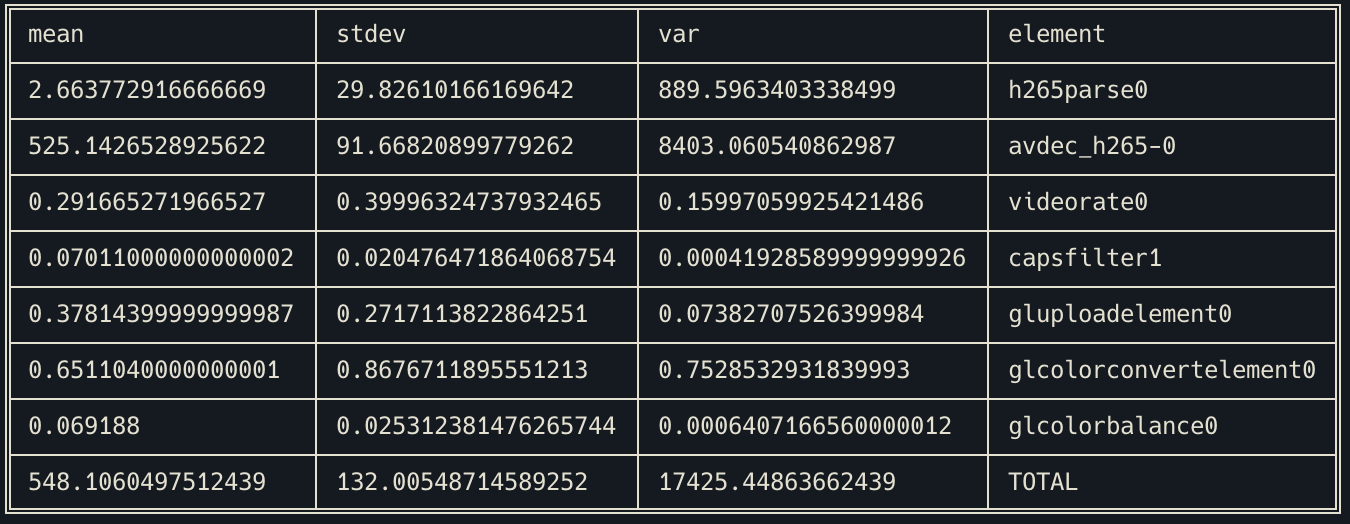
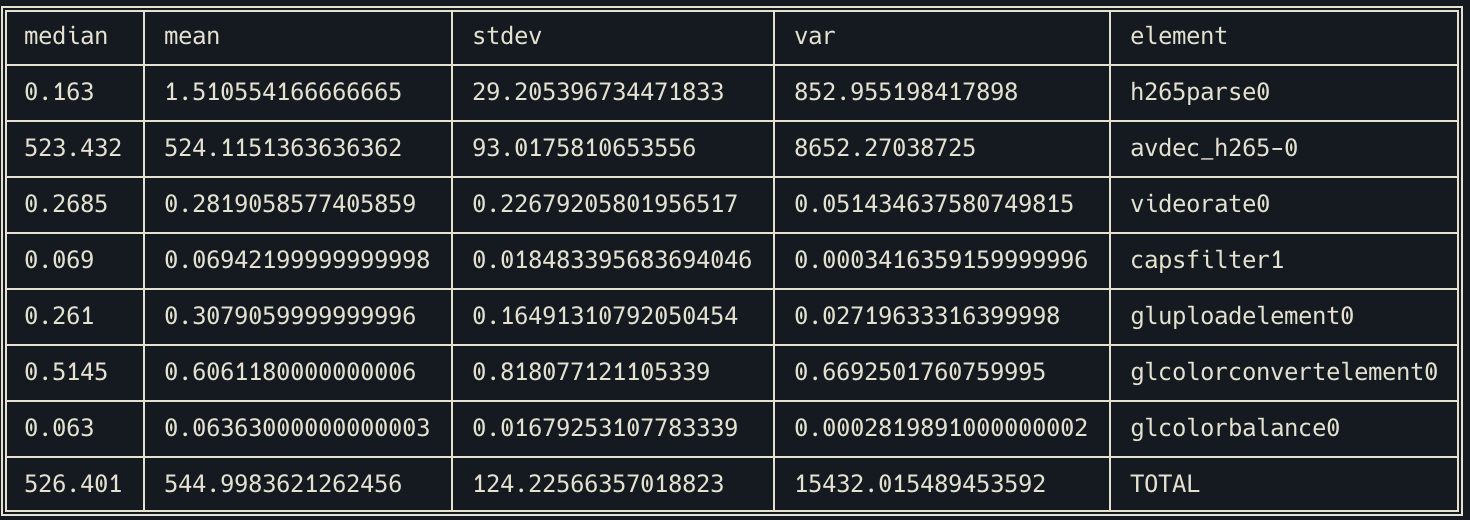
compute median

Changed region(s): [[0.0, 0.0, 0.9956, 1.0]]

diff --git a/main.js b/main.js
@@ -180,15 +180,17 @@ function computeSumPlot(numBins){
   let minTs = null
   let maxTs = null
 
-  let tableData = [['mean', 'stdev', 'var', 'element']]
+  let tableData = [['median', 'mean', 'stdev', 'var', 'element']]
   for(let key in pipeLineElements){
     xes.push(pipeLineElements[key].x)
     yes.push(pipeLineElements[key].y)
 
+    let median = stats.median(pipeLineElements[key].y)
     let mean = stats.mean(pipeLineElements[key].y)
     let variance = stats.variance(pipeLineElements[key].y)
     let stdev = stats.stdev(pipeLineElements[key].y)
-    tableData.push([mean, stdev, variance, key])
+    
+    tableData.push([median, mean, stdev, variance, key])
 
     indexes.push(0)
     if(minTs == null || minTs>pipeLineElements[key].x[0]) minTs = pipeLineElements[key].x[0]
@@ -235,11 +237,12 @@ function computeSumPlot(numBins){
     pipeLineElements['total'].y.push(sumVal)
   }
 
+  let median = stats.median(pipeLineElements['total'].y)
   let mean = stats.mean(pipeLineElements['total'].y)
   let variance = stats.variance(pipeLineElements['total'].y)
   let stdev = stats.stdev(pipeLineElements['total'].y)
   pipeLineElements['total'].userdata = {mean: mean, stdev: stdev}
-  tableData.push([mean, stdev, variance, 'TOTAL'])
+  tableData.push([median, mean, stdev, variance, 'TOTAL'])
 
   console.log(table.table(tableData))
 }
